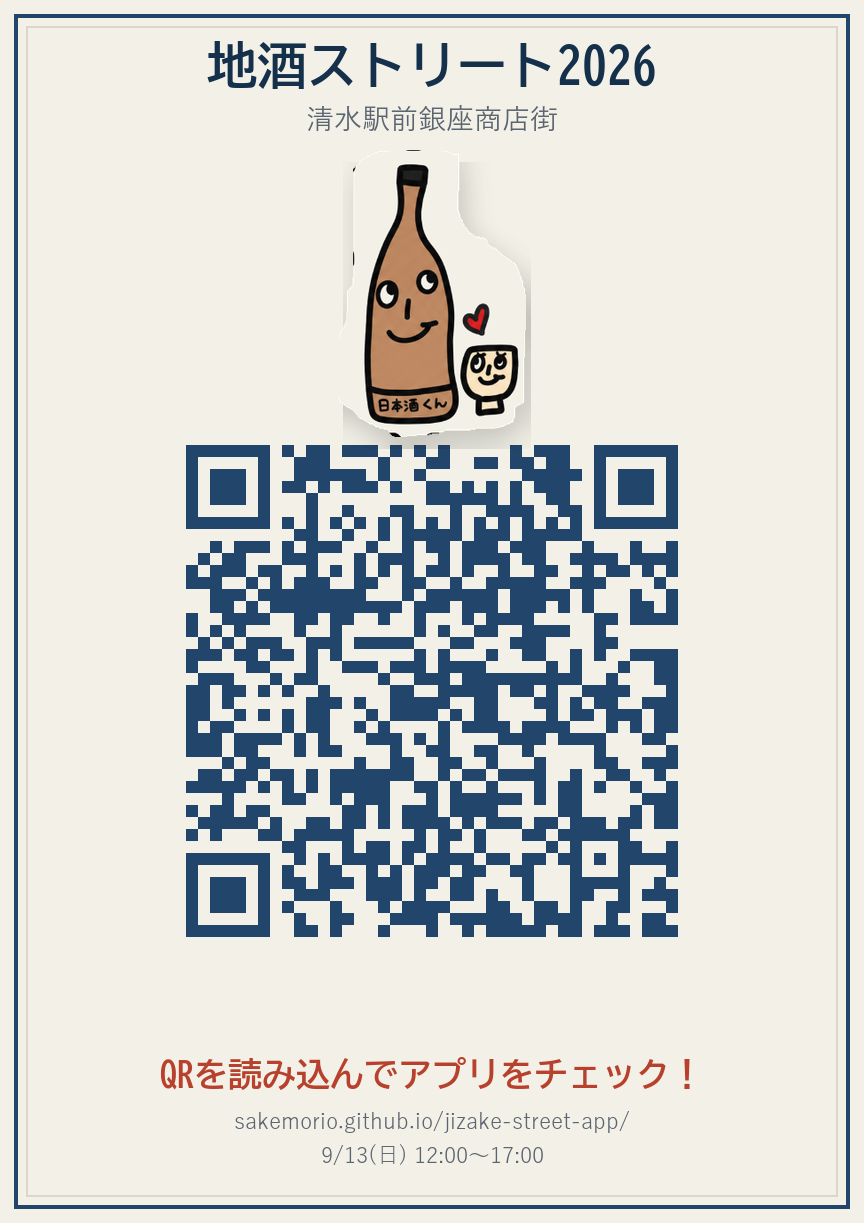
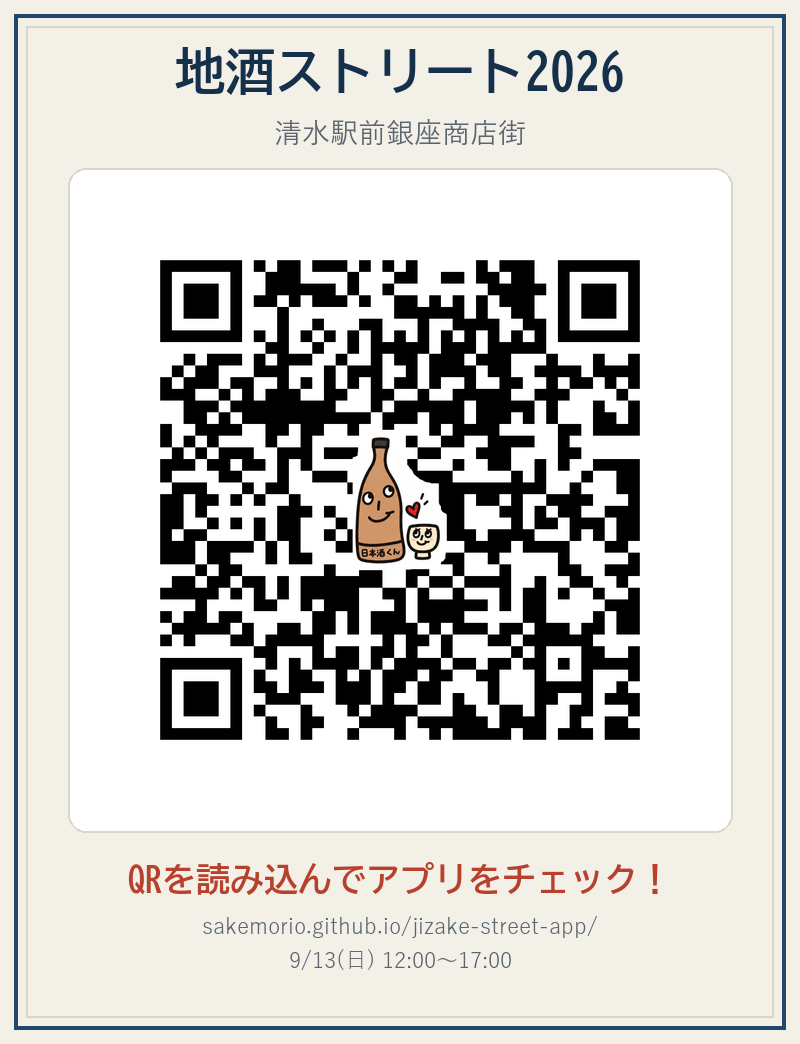
feat: ユーザー提供のQRコードに切り替え
・自作生成をやめ、しげおさんが用意したQR画像(assets/qr-provided.png)を白いマットに載せる方式に変更
・gen_qr.pyをシンプル化（QR生成ロジックを削除、フレーム組みのみ）
・OpenCVでスキャン検証済み（縮小30%まで読み取り可）

diff --git a/scripts/gen_qr.py b/scripts/gen_qr.py
@@ -1,13 +1,10 @@
-import qrcode
-from qrcode.constants import ERROR_CORRECT_H
-from PIL import Image, ImageDraw, ImageFont, ImageFilter
-import numpy as np
+from PIL import Image, ImageDraw, ImageFont
 import os
 
 OUT_DIR = os.path.join(os.path.dirname(__file__), "..", "assets")
 os.makedirs(OUT_DIR, exist_ok=True)
 OUT_PATH = os.path.join(OUT_DIR, "qr-card.png")
-CHAR_SRC = os.path.join(OUT_DIR, "character-source.png")
+QR_SRC = os.path.join(OUT_DIR, "qr-provided.png")  # ユーザー提供済みのQR（キャラクター埋め込み・スキャン確認済み）
 
 URL = "https://sakemorio.github.io/jizake-street-app/"
 
@@ -17,35 +14,7 @@ INDIGO = (34, 69, 107, 255)
 INDIGO_DEEP = (20, 48, 74, 255)
 HANKO = (184, 65, 46, 255)
 LINE = (218, 214, 200, 255)
-
-def recolor_white_bg(img, target=PAPER, threshold=235):
-    """キャラクター原画の白い背景（ステッカー状の縁）だけを紙色に置き換える。
-    線画・配色はそのまま、背景だけをカードの地の色に馴染ませて「貼った感」を消す。"""
-    arr = np.array(img).astype(np.float32)
-    rgb, a = arr[..., :3], arr[..., 3]
-    is_bg = (rgb.min(axis=-1) >= threshold) & (a > 0)
-    arr[..., 0][is_bg] = target[0]
-    arr[..., 1][is_bg] = target[1]
-    arr[..., 2][is_bg] = target[2]
-    return Image.fromarray(arr.astype(np.uint8), "RGBA")
-
-CHARACTER = recolor_white_bg(Image.open(CHAR_SRC).convert("RGBA"))
-
-def fit_character(max_w, max_h):
-    """character-source.png をアスペクト比を保ったまま max_w x max_h に収める（線画・配色はそのまま）"""
-    w, h = CHARACTER.size
-    ratio = min(max_w / w, max_h / h)
-    new_size = (max(1, int(w * ratio)), max(1, int(h * ratio)))
-    return CHARACTER.resize(new_size, Image.LANCZOS)
-
-def soft_shadow(img, blur, opacity=0.30):
-    alpha = img.split()[3]
-    shadow = Image.new("L", img.size, 0)
-    shadow.paste(alpha, (0, 0))
-    shadow = shadow.filter(ImageFilter.GaussianBlur(blur))
-    layer = Image.new("RGBA", img.size, (20, 24, 28, 0))
-    layer.putalpha(shadow.point(lambda a: int(a * opacity)))
-    return layer
+WHITE = (255, 255, 255, 255)
 
 FONT_DIR = "C:/Windows/Fonts"
 def font(name, size, index=0):
@@ -56,28 +25,21 @@ sub_font = font("YuGothM.ttc", 28)
 caption_font = font("BIZ-UDGothicB.ttc", 34)
 url_font = font("YuGothR.ttc", 22)
 
-# ==== 1) QRコード本体（クワイエットゾーンを広めにとり、キャラクターが深く重なれるようにする） ====
-BORDER = 8
-BOX = 12
-qr = qrcode.QRCode(error_correction=ERROR_CORRECT_H, box_size=BOX, border=BORDER)
-qr.add_data(URL)
-qr.make(fit=True)
-qr_img = qr.make_image(fill_color=INDIGO, back_color=PAPER).convert("RGBA")
-qr_size = qr_img.size[0]
-quiet = BORDER * BOX  # クワイエットゾーンの実ピクセル幅（この範囲は実データが一切ないので自由に重ねられる）
+# ==== 提供済みのQR画像を読み込む（すでにキャラクター埋め込み・スキャン確認済みなので加工しない） ====
+qr_img = Image.open(QR_SRC).convert("RGB")
+QR_DISPLAY = 620  # カードに収めるサイズ
+qr_img = qr_img.resize((QR_DISPLAY, QR_DISPLAY), Image.LANCZOS)
+qr_size = QR_DISPLAY
 
-# ==== 2) カード全体を組み立てる（縦一列。キャラクターはQR上端のクワイエットゾーンに深く沈めて“一体化”させる） ====
+# ==== カード全体を組み立てる ====
 PAD = 90
-TOP_H = 150
+MOUNT_PAD = 22  # QRの白背景をそのまま活かす「白いマット」の余白
+HEADER_H = 190
 FOOTER_H = 190
-
-top_char = fit_character(int(qr_size * 0.42), int(qr_size * 0.42))
-OVERLAP = min(int(top_char.height * 0.52), int(quiet * 0.92))  # 実データ領域には絶対に掛からない範囲で深めに沈める
-
 CARD_W = qr_size + PAD * 2
-CARD_H = TOP_H + (top_char.height - OVERLAP) + qr_size + FOOTER_H
+CARD_H = HEADER_H + qr_size + MOUNT_PAD * 2 + FOOTER_H
 
-card = Image.new("RGBA", (CARD_W, CARD_H), PAPER)
+card = Image.new("RGB", (CARD_W, CARD_H), PAPER)
 draw = ImageDraw.Draw(card)
 
 # 外枠
@@ -87,36 +49,31 @@ draw.rectangle([26, 26, CARD_W - 27, CARD_H - 27], outline=LINE, width=2)
 # タイトル
 title = "地酒ストリート2026"
 tw = draw.textlength(title, font=title_font)
-draw.text(((CARD_W - tw) / 2, 40), title, font=title_font, fill=INDIGO_DEEP)
+draw.text(((CARD_W - tw) / 2, 46), title, font=title_font, fill=INDIGO_DEEP)
 sub = "清水駅前銀座商店街"
 sw = draw.textlength(sub, font=sub_font)
-draw.text(((CARD_W - sw) / 2, 104), sub, font=sub_font, fill=(91, 101, 112, 255))
+draw.text(((CARD_W - sw) / 2, 118), sub, font=sub_font, fill=(91, 101, 112, 255))
 
-# QR配置
+# QRを白い“マット”に載せて、紙色のカードとの境目を自然に見せる
 qr_x = PAD
-qr_y = TOP_H + (top_char.height - OVERLAP)
-card.alpha_composite(qr_img, (qr_x, qr_y))
-
-# 「日本酒くん」：QR上端のクワイエットゾーンに深く沈める。背景を紙色に馴染ませた上で、
-# 影をQRの余白に落として“のっている”接地感を出す（実データ領域には一切重ねない）
-top_x = qr_x + (qr_size - top_char.width) // 2
-top_y = qr_y - top_char.height + OVERLAP
-shadow_top = soft_shadow(top_char, blur=14, opacity=0.22)
-card.alpha_composite(shadow_top, (top_x + 5, top_y + 12))
-card.alpha_composite(top_char, (top_x, top_y))
+qr_y = HEADER_H
+mount_box = [qr_x - MOUNT_PAD, qr_y - MOUNT_PAD, qr_x + qr_size + MOUNT_PAD, qr_y + qr_size + MOUNT_PAD]
+draw.rounded_rectangle(mount_box, radius=18, fill=WHITE, outline=LINE, width=2)
+card.paste(qr_img, (qr_x, qr_y))
 
 # キャプション
+cap_y = qr_y + qr_size + MOUNT_PAD + 30
 cap = "QRを読み込んでアプリをチェック！"
 cw = draw.textlength(cap, font=caption_font)
-draw.text(((CARD_W - cw) / 2, qr_y + qr_size + 24), cap, font=caption_font, fill=HANKO)
+draw.text(((CARD_W - cw) / 2, cap_y), cap, font=caption_font, fill=HANKO)
 
 url_text = URL.replace("https://", "")
 uw = draw.textlength(url_text, font=url_font)
-draw.text(((CARD_W - uw) / 2, qr_y + qr_size + 76), url_text, font=url_font, fill=(91, 101, 112, 255))
+draw.text(((CARD_W - uw) / 2, cap_y + 52), url_text, font=url_font, fill=(91, 101, 112, 255))
 
 note = "9/13(日) 12:00〜17:00"
 nw = draw.textlength(note, font=url_font)
-draw.text(((CARD_W - nw) / 2, qr_y + qr_size + 110), note, font=url_font, fill=(91, 101, 112, 255))
+draw.text(((CARD_W - nw) / 2, cap_y + 86), note, font=url_font, fill=(91, 101, 112, 255))
 
-card.convert("RGB").save(OUT_PATH, "PNG")
-print("saved:", OUT_PATH, card.size, "qr_size:", qr_size, "quiet:", quiet, "overlap:", OVERLAP)
+card.save(OUT_PATH, "PNG")
+print("saved:", OUT_PATH, card.size)
